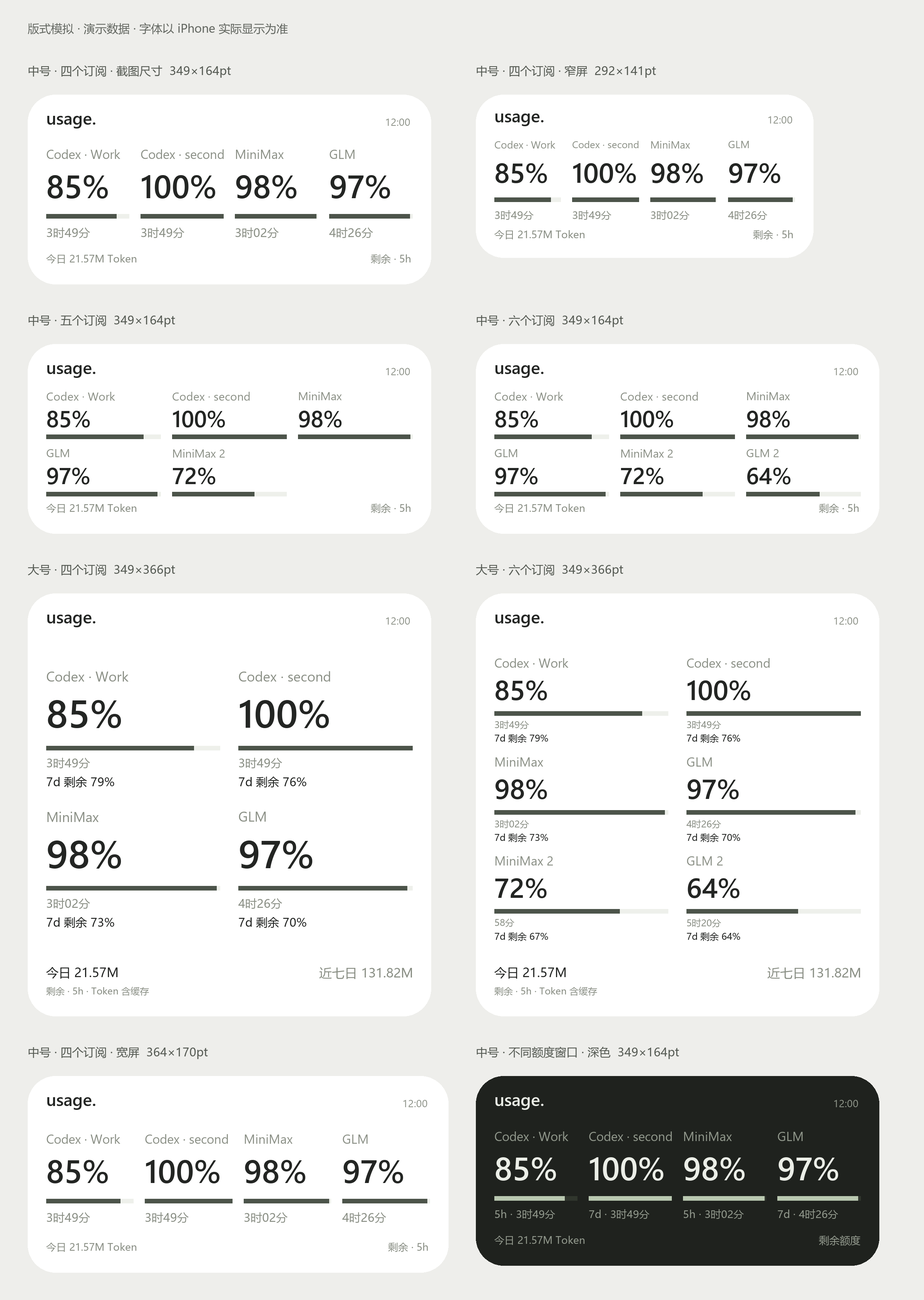
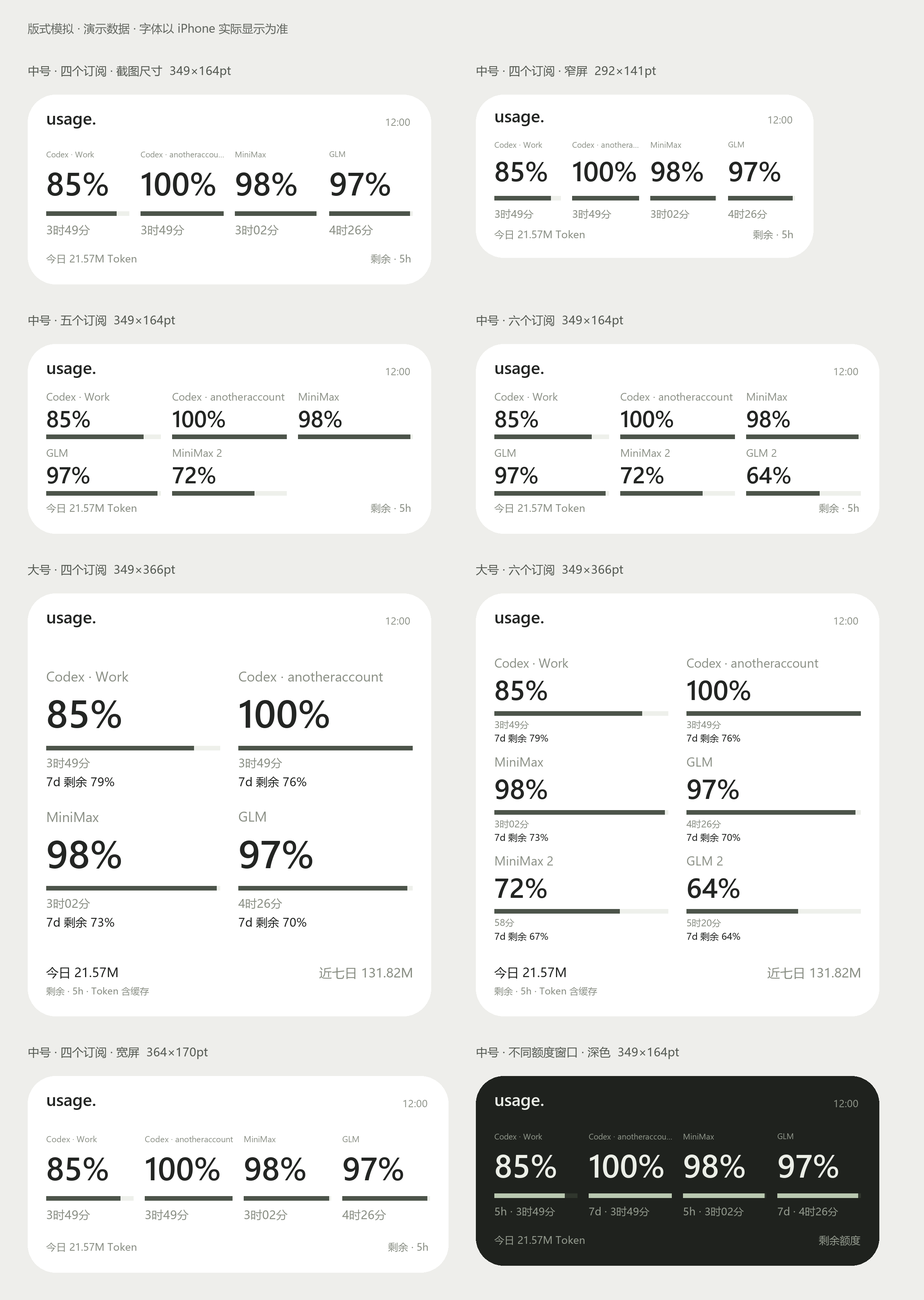
fix: answer the review of the multi-account work
The review of the two commits that named every agent and told the
accounts of one vendor apart found a few things worth fixing.

- The count of the accounts of a vendor is taken once, over every row
  the gateway reports, and travels with the card. A vendor with several
  accounts never lends its total to a card that cannot be named.
- The fallback of each account travels with its own rows, so a cached
  reading can no longer be handed to another account by its place in
  the list, and the source that knows more accounts wins.
- Two accounts that share a name keep their number in the id and in the
  label, and the address of an account is looked up by the same key as
  its card.
- A row of the usage of a vendor without a number leaves the usage
  unknown instead of turning it into a smaller number.
- The last reading of an account is kept when its own query fails, and
  the cards say when their usage comes from an old reading.
- The widget reads its parameter once: a page number is not an account,
  and an account is matched as it is written, so two accounts that
  differ in their case are two accounts.
- A name takes the size that fits its cell; only a name that does not
  fit even at the smallest size is shortened, and the full name stays
  in the dashboard.
- A reset time that cannot be read is unknown, never "NaN days".
- The installer tells how one account of a vendor is chosen.

diff --git a/scriptable/UsageWidget.js b/scriptable/UsageWidget.js
@@ -2,6 +2,8 @@
 // Configure once with SetupUsageWidget.js. No credentials belong in this file.
 // Widget parameter: a provider id for the small family (codex, minimax, glm),
 // optionally "|used" to show consumed instead of remaining percent (glm|used).
+// One account of a vendor is named codex@<account>; the vendor on its own
+// means the first account of that vendor.
 // On medium and large families "used" alone flips every card.
 // Both families adapt to 1–6 subscriptions; "page=2|used" selects another page.
 const SETTINGS_KEY = "usage-bridge-v1";
@@ -85,8 +87,40 @@ function compact(value) {
   if (value >= 1e3) return (value / 1e3).toFixed(1).replace(/\.0$/, "") + "K";
   return String(Math.round(value));
 }
+// The width of a name in the system font, as a multiple of its size: the
+// Chinese characters are full width, the Latin ones differ by their letter.
+function nameWidth(value) {
+  return [...String(value)].reduce((sum, char) => sum + (
+    char.codePointAt(0) >= 0x2e80 ? 1 : /[MW%]/.test(char) ? 0.85 :
+      /[il: .·]/.test(char) ? 0.28 : /\d/.test(char) ? 0.58 : 0.56
+  ), 0);
+}
+// The name of a card is shown in full: it takes the size that fits its cell.
+// A name that does not fit even at the smallest size is shortened, and the
+// full name stays in the dashboard.
+const minimumScale = family === "small" ? 0.7 : 0.9;
+function fitName(value, size, width) {
+  const label = String(value);
+  const em = nameWidth(label);
+  return { size: em > 0 ? Math.max(7, Math.min(size, Math.floor(width / em / minimumScale * 10) / 10)) : size, label };
+}
+function shortenName(label, size, width) {
+  if (nameWidth(label) * size * minimumScale <= width) return label;
+  let keep = label.length;
+  while (keep > 1 && nameWidth(label.slice(0, keep) + "…") * size * minimumScale > width) keep--;
+  return label.slice(0, keep) + "…";
+}
 function expired(window) {
   return window.expired || !!window.resetsAt && Date.parse(window.resetsAt) <= Date.now();
+}
+// The reset of a window is read in one place, so the full text and the short
+// one can never disagree about an unknown or an elapsed time.
+function parseReset(window) {
+  if (expired(window)) return { state: "expired" };
+  if (!window.resetsAt) return { state: "unknown" };
+  const at = Date.parse(window.resetsAt);
+  if (!Number.isFinite(at)) return { state: "unknown" };
+  return { state: "known", minutes: Math.ceil((at - Date.now()) / 60000) };
 }
 // Both directions read the same vendor percentage; only the view changes.
 function value(window) {
@@ -101,17 +135,19 @@ function accent(window) {
   return consumed >= 90 ? colors.critical : consumed >= 75 ? colors.warning : colors.text;
 }
 function reset(window) {
-  if (expired(window)) return "已到期· 待更新";
-  if (!window.resetsAt) return "重置时间未知";
-  const mins = Math.ceil((Date.parse(window.resetsAt) - Date.now()) / 60000);
+  const parsed = parseReset(window);
+  if (parsed.state === "expired") return "已到期· 待更新";
+  if (parsed.state === "unknown") return "重置时间未知";
+  const mins = parsed.minutes;
   if (mins < 60) return mins + " 分钟后重置";
   if (mins < 1440) return Math.floor(mins / 60) + "时 " + mins % 60 + "分后重置";
   return Math.floor(mins / 1440) + "天 " + Math.floor(mins % 1440 / 60) + "时后重置";
 }
 function shortReset(window) {
-  if (expired(window)) return "待更新";
-  if (!window.resetsAt) return "时间未知";
-  const mins = Math.ceil((Date.parse(window.resetsAt) - Date.now()) / 60000);
+  const parsed = parseReset(window);
+  if (parsed.state === "expired") return "待更新";
+  if (parsed.state === "unknown") return "时间未知";
+  const mins = parsed.minutes;
   if (mins < 60) return mins + "分";
   if (mins < 1440) return Math.floor(mins / 60) + "时" + String(mins % 60).padStart(2, "0") + "分";
   return Math.floor(mins / 1440) + "天" + Math.floor(mins % 1440 / 60) + "时";
@@ -141,12 +177,18 @@ function header(status) {
   text(row, "usage.", 15, colors.text, "medium"); row.addSpacer();
   text(row, status, 9, cached ? colors.warning : colors.muted);
 }
-const parameter = String(args.widgetParameter || "").split("|").map(part => part.trim().toLowerCase()).filter(Boolean);
-const showUsed = parameter.includes("used");
-const requested = parameter.find(part => part !== "used") || "codex";
+// The parameter is read once: a subscription to show, a page and a direction.
+// The case of an account is kept: two accounts of one vendor may differ in
+// nothing but their case.
+const parameter = String(args.widgetParameter || "").split("|").map(part => part.trim()).filter(Boolean);
+const showUsed = parameter.some(part => part.toLowerCase() === "used");
+const pageParts = parameter.filter(part => /^page=/i.test(part));
+const selectors = parameter.filter(part => part.toLowerCase() !== "used" && !/^page=/i.test(part));
+const requested = selectors[0] || "codex";
 const emptyWindow = { label: "Quota", remainingPercent: null, usedPercent: null, resetsAt: null };
 function subscriptionGrid(parent, cards, sharedWindow) {
   const large = family === "large";
+  if (!cards.length) return;
   const columns = large ? Math.min(2, cards.length) : cards.length > 4 ? 3 : cards.length;
   const rows = Math.ceil(cards.length / columns);
   const dense = large ? rows === 3 : rows === 2;
@@ -162,6 +204,10 @@ function subscriptionGrid(parent, cards, sharedWindow) {
       ? { name: tight ? 9 : 10, value: tight ? 18 : 20, titleGap: 1, barGap: 1, rowGap: tight ? 4 : 6 }
       : { name: cellWidth < 67 ? 9 : 11, value: cellWidth < 67 ? 24 : 28, reset: cellWidth < 64 ? 9 : 10, titleGap: 4, barGap: 6, resetGap: 6, rowGap: 0 };
   const grid = parent.addStack(); grid.layoutVertically(); grid.size = new Size(layout.width, 0);
+  // Every name of the page takes the size that fits the narrowest of them, so
+  // the cards keep one title size.
+  const names = cards.map(card => fitName(card.label, style.name, cellWidth));
+  const nameSize = names.length ? Math.min(...names.map(name => name.size)) : style.name;
   for (let start = 0; start < cards.length; start += columns) {
     if (start) grid.addSpacer(style.rowGap);
     const row = grid.addStack(); row.topAlignContent();
@@ -171,7 +217,7 @@ function subscriptionGrid(parent, cards, sharedWindow) {
       const card = cards[start + index];
       if (!card) continue; // Keep the final card aligned with the previous rows.
       const primary = card.windows[0] || emptyWindow;
-      text(column, card.label, style.name, colors.muted, "medium");
+      text(column, shortenName(card.label, nameSize, cellWidth), nameSize, colors.muted, "medium");
       column.addSpacer(style.titleGap);
       const valueRow = column.addStack(); valueRow.centerAlignContent();
       text(valueRow, percent(primary), style.value, accent(primary), "medium");
@@ -209,13 +255,17 @@ if (!settings || !data || data.schemaVersion !== 1) {
   if (family === "small") {
     header(status);
     // A parameter may name one account of a vendor (codex@fangzt98) or the
-    // vendor itself, which then means its first account.
-    const card = data.subscriptions.find(c => String(c.id).toLowerCase() === requested)
-      || data.subscriptions.find(c => c.provider === requested);
+    // vendor itself, which then means its first account. The id is matched as
+    // it is written: two accounts of one vendor may differ in their case only.
+    const exact = data.subscriptions.find(c => c.id === requested);
+    const same = data.subscriptions.filter(c => String(c.id).toLowerCase() === requested.toLowerCase());
+    const card = exact || (same.length === 1 ? same[0] : null)
+      || data.subscriptions.find(c => c.provider === requested.toLowerCase());
     widget.addSpacer(12);
     const primary = card && card.windows[0] || emptyWindow;
     const name = widget.addStack();
-    text(name, card ? card.label : "暂无该套餐", 12, colors.muted, "medium");
+    const title = fitName(card ? card.label : "暂无该套餐", 12, layout.width - 60);
+    text(name, title.label, title.size, colors.muted, "medium");
     name.addSpacer(4); text(name, windowLabel(primary), 9, colors.muted);
     widget.addSpacer(3); text(widget, percent(primary), 34, accent(primary), "medium");
     widget.addSpacer(7); bar(widget, primary, 120); widget.addSpacer(7);
@@ -233,7 +283,7 @@ if (!settings || !data || data.schemaVersion !== 1) {
     // Preserve service order and every independent account; page only on the phone.
     const all = data.subscriptions || [];
     const pages = Math.max(1, Math.ceil(all.length / 6));
-    const pageToken = parameter.find(part => part.startsWith("page=")) || "page=1";
+    const pageToken = pageParts[0] || "page=1";
     const rawPage = pageToken.slice(5);
     const pageNumber = /^\d+$/.test(rawPage) ? Number(rawPage) : NaN;
     const page = Number.isSafeInteger(pageNumber) && pageNumber > 0 ? Math.min(pageNumber, pages) : 1;

diff --git a/scriptable/SetupUsageWidget.js b/scriptable/SetupUsageWidget.js
@@ -40,7 +40,7 @@ if (await alert.presentAlert() !== -1) {
     Keychain.set("usage-bridge-v1", JSON.stringify({ baseURL, token }));
     const done = new Alert();
     done.title = "已连接";
-    done.message = "UsageWidget 已安装。长按桌面添加 Scriptable 中号或大号小组件，选择 UsageWidget。每页最多六个订阅，布局随数量自动调整。\n\n中号和大号参数留空即可；page=2 查看第二页，used 改显已用，可组合 page=2|used。小号填 codex、minimax 或 glm，可加 |used。再次运行本安装器可更新组件。";
+    done.message = "UsageWidget 已安装。长按桌面添加 Scriptable 中号或大号小组件，选择 UsageWidget。每页最多六个订阅，布局随数量自动调整。\n\n中号和大号参数留空即可；page=2 查看第二页，used 改显已用，可组合 page=2|used。小号填 codex、minimax 或 glm，可加 |used；同一个厂商登录了多个账号时，填 codex@账号名 指定其中一个（如 codex@liuzq），只填 codex 表示该厂商的第一个账号。再次运行本安装器可更新组件。";
     done.addAction("预览组件"); done.addCancelAction("完成");
     if (await done.presentAlert() !== -1) Safari.open("scriptable:///run?scriptName=UsageWidget");
   } catch (error) {

diff --git a/web/app.js b/web/app.js
@@ -110,7 +110,9 @@ function renderQuotas(cards) {
     if (!card.windows.length) article.append(node('p', 'fine-print', '此套餐未提供额度窗口'));
     if (card.usage && card.usage.today) {
       const today = card.usage.today;
-      article.append(node('p', 'fine-print', '今日 ' + compact(today.totalTokens) + ' Token · ' + today.requests + ' 次请求'));
+      const line = '今日 ' + compact(today.totalTokens) + ' Token';
+      const detail = Number.isFinite(today.requests) ? ' · ' + today.requests + ' 次请求' : '';
+      article.append(node('p', 'fine-print', line + detail + (card.usageStale ? ' · 缓存读数' : '')));
     } else {
       // The usage of this subscription is unknown; the total of all is never
       // shown in its place.

diff --git a/docs/API.md b/docs/API.md
@@ -43,9 +43,13 @@ Agent 条目同样按上游稳定 id 解析，覆盖 Magpie 已知的全部 agen
 
 `subscriptions` 的顺序即手机组件的显示顺序；API 保留全部所选套餐，分页仅在手机端进行。中号与大号每页最多显示 6 个，随当前页数量自动调整布局；通过组件参数 `page=2` 指定第二页，支持 `page=2|used`。默认第一页，无效页码使用第一页，超出范围使用最后一页；多页时显示当前页码及总页数。
 
-套餐字段：`id`、`provider`、`label`、`plan`、`account`、`alias`、`updatedAt`、`stale`、`windows`。同一厂商有多个账号时，每个账号单独成卡：`id` 为 `厂商@账号`（如 `codex@liuzq`），`label` 为 `Codex · liuzq`，`account` 为账号标识；只有一个账号的厂商保持 `Codex` 这样的普通名称，不输出账号身份。账号只取上游 `user` 中 `@` 前的部分，邮箱域名与凭据不会离开本机。Magpie 中给账户起的名字（`magpie accounts alias codex <email> <name>`）由上游放在 `alias`，符合纯文本规则的才显示，出现在 `label` 与 `alias` 字段中，它不改变 `id`。`display.subscriptions` 既可写厂商名（`codex`），也可写某个账号（`codex@liuzq`）；组件参数同样支持这两种写法，厂商名表示该厂商的第一个账号。
+套餐字段：`id`、`provider`、`label`、`plan`、`account`、`alias`、`accounts`、`updatedAt`、`stale`、`usageStale`、`windows`。同一厂商有多个账号时，每个账号单独成卡：`id` 为 `厂商@账号`（如 `codex@liuzq`），`label` 为 `Codex · liuzq`，`account` 为账号标识；只有一个账号的厂商保持 `Codex` 这样的普通名称，不输出账号身份。账号只取上游 `user` 中 `@` 前的部分，邮箱域名与凭据不会离开本机。Magpie 中给账户起的名字（`magpie accounts alias codex <email> <name>`）由上游放在 `alias`，符合纯文本规则的才显示，出现在 `label` 与 `alias` 字段中，它不改变 `id`。`display.subscriptions` 既可写厂商名（`codex`），也可写某个账号（`codex@liuzq`）；组件参数同样支持这两种写法，厂商名表示该厂商的第一个账号。
 
-同一厂商的多个账号按账号名排序，与网关返回的先后无关：账号不会互相换位，厂商名也永远指同一个账号。
+同一厂商的多个账号按账号名排序，与网关返回的先后无关：账号不会互相换位，厂商名也永远指同一个账号。两个账号只差大小写时按原样区分；两个账号的名字完全相同时，后一个在 `id` 与 `label` 上都带序号（如 `codex@liuzq-2`、`Codex · liuzq-2`），两张卡仍能分辨。
+
+`accounts` 是这个厂商已知的账号数。它按网关报出的所有行统计，包括读数坏掉而没有成卡的那一行：一个有多个账号的厂商，任何一张卡都不会借用厂商的合计。
+
+关于标签来源：厂商名、窗口名、模型名与 agent 名都来自代码内的固定映射；`alias` 是例外，因为它是用户自己为**自己的**账号起的名字，不是第三方文本。它只按纯文本规则过滤（字母、数字、空格与 `._*'-`，至多 32 字），不含地址、路径或标记，并随快照保存在本机；不符合规则的别名不显示，`label` 退回厂商名。
 
 额度 windows 包含：
 - `label`：厂商窗口名。
@@ -54,7 +58,9 @@ Agent 条目同样按上游稳定 id 解析，覆盖 Magpie 已知的全部 agen
 - `expired`：窗口是否已到期；客户端在离线时也必须重新计算。
 - `amount`、`limit`：厂商明确提供时保留；不推断额度单位。
 
-每个套餐还带 `usage`：该套餐自己的今日用量（`today.totalTokens`、`today.requests`）。同一厂商有多个账号时，这是那一个账号自己的用量（Magpie 按账号过滤用量后只回总量，账号地址不离开本机、不写入快照）；只有一个账号的厂商，取该厂商自己的用量行。取不到时为 null，客户端不得用全量顶替；同一厂商有多个账号时，任何一张卡都不会借用厂商的总量，因为那会把另一个账号的 Token 算进来。跨日之后的今日读数不作为今天的用量。
+每个套餐还带 `usage`：该套餐自己的今日用量（`today.totalTokens`、`today.requests`）。同一厂商有多个账号时，这是那一个账号自己的用量（Magpie 按账号过滤用量后只回总量，账号地址不离开本机、不写入快照）；只有一个账号的厂商，取该厂商自己的用量行。取不到时为 null，客户端不得用全量顶替；同一厂商有多个账号时，任何一张卡都不会借用厂商的总量，因为那会把另一个账号的 Token 算进来。厂商用量行缺数字时整组作废（未知），不会变成一个偏小的数字。跨日之后的今日读数不作为今天的用量。
+
+`usageStale` 说明这张卡的用量取自多旧的读数：今日读数不是最新时为 true，界面应把它当作缓存显示。额度窗口本身的新旧由 `stale` 与 `updatedAt` 说明。
 
 指标字段：`requests`、`errors`、`inputTokens`、`outputTokens`、`cacheReadTokens`、`cacheWriteTokens`、`reasoningTokens`、`totalTokens`、`cacheHitPercent`、`cost`、`unpriced`、`outputTokensPerSecond`、`ttftMs`。缓存命中率分母为输入＋缓存读取＋缓存写入，与 `totalTokens` 的口径一致；分母为 0 时为 null。`cost` 为 Magpie 按实效价格的估算值，`unpriced` 为未计价请求数（估算可能偏低），货币单位以 Magpie 价格表为准；`outputTokensPerSecond` 为流式解码吞吐，`ttftMs` 为平均首字延迟，两者只统计有测量的请求，无测量时为 null。
 

diff --git a/docs/DEPLOYMENT.md b/docs/DEPLOYMENT.md
@@ -59,15 +59,17 @@ node scripts/configure.mjs --model-limit 12 --subscriptions codex,minimax,glm
 
 **同一厂商的多个账号**：在 Magpie 里登录第二个账号（两套登录信息并存）后，两张卡分别显示为 `Codex · 账号名` 与 `Codex · 另一个账号名`，账号名取邮箱 `@` 前的部分，彼此不会换位；该厂商只有一个账号时仍显示 `Codex`，不显示账号身份。邮箱域名不会显示，也不会离开本机。要只显示其中一个账号，在 `subscriptions` 里写 `codex@liuzq`；小号组件的 Widget Parameter 也可写 `codex@liuzq`，写 `codex` 表示该厂商的第一个账号。
 
-厂商内的顺序按账号名排定，与 Magpie 返回的先后无关：账号换了位置，组件参数指向的仍是同一个账号，厂商名也永远指同一个账号。要固定显示顺序，就在 `subscriptions` 里按需要的顺序写出 `codex@账号`。
+厂商内的顺序按账号名排定，与 Magpie 返回的先后无关：账号换了位置，组件参数指向的仍是同一个账号，厂商名也永远指同一个账号。要固定显示顺序，就在 `subscriptions` 里按需要的顺序写出 `codex@账号`。两个账号只差大小写时按原样区分；两个账号的名字完全相同时，后一个在 id 与显示名上都带序号，两张卡仍能分辨。
 
-给账户起个自己的名字（`magpie accounts alias codex <email> <name>`），组件就会显示这个名字而不是邮箱前缀：`Codex · 工作账号`。名字只在本机保存，符合纯文本规则的才会显示；它不影响 `codex@liuzq` 这样的 id。
+给账户起个自己的名字（`magpie accounts alias codex <email> <name>`），组件就会显示这个名字而不是邮箱前缀：`Codex · 工作账号`。名字只在本机保存，符合纯文本规则的才会显示；它不影响 `codex@liuzq` 这样的 id。厂商名、窗口名、模型名与 agent 名都取自代码内的固定映射；别名是唯一的例外，因为它是用户为自己账号起的名字，不是第三方文本。
 
-每个套餐带自己的今日用量：多账号时是这个账号自己的 Token（服务按账号向 Magpie 查询，只取回总量，账号地址不写入快照），单账号厂商是该厂商自己的用量。小号组件只显示一个套餐，底部的“今日 … token”也是这个套餐的用量；中号与大号显示多个套餐，页脚仍是全部用量的合计。厂商有多个账号时，任何一张卡都不会借用厂商的总量；取不到的用量显示“—”，不用别的数字顶替。账号地址只在本机内存里保留，用来在额度接口临时不可用时继续查询同一个账号，读数返回后即丢弃。
+每个套餐带自己的今日用量：多账号时是这个账号自己的 Token（服务按账号向 Magpie 查询，只取回总量，账号地址不写入快照），单账号厂商是该厂商自己的用量。小号组件只显示一个套餐，底部的“今日 … token”也是这个套餐的用量；中号与大号显示多个套餐，页脚仍是全部用量的合计。厂商有多个账号时，任何一张卡都不会借用厂商的总量；取不到的用量显示“—”，不用别的数字顶替。账号地址只在本机内存里保留，用来在额度接口临时不可用时继续查询同一个账号，读数返回后即丢弃；账号用量查询失败时保留上一次读到的数字，并标明是缓存读数。
 
 中号和大号每页最多六个套餐，按 `subscriptions` 的返回顺序分页。超过六个时显示页码，Widget Parameter 填 `page=2` 查看第二页，填 `page=2|used` 同时查看已用额度。默认第一页，不自动轮播；无效页码回到第一页，超出范围显示最后一页。最后一页按实际套餐数量排版，也可添加多个不同页码的组件组成系统堆叠。
 
 布局使用 `Device.screenSize()` 的屏幕点尺寸选择组件尺寸档位；扣除左右各 16pt 内边距后，正文、页眉和页脚使用相同宽度，中号列间距 10pt、大号 16pt，未知屏幕采用保守估算。名称独占一行，倒计时简写为 `49分`、`3时49分`、`2天3时`；到期显示“待更新”，无重置时间显示“时间未知”。同页主窗口相同时统一在页脚标注，不同时在各卡标明窗口；紧凑中号在数值旁标明不同窗口，不增加倒计时行。
+
+卡片名称按它自己的长度取字号：窄卡片里名字长的那一张用更小的字号，同一页的标题保持同一个字号。名字长到连最小的字号也放不下时，手机上才把它缩短（`Codex · liuzq…`），完整名字在详情页与网页上看得到；账号名与别名都不会被截断在服务那一侧。
 
 默认安装器使用 [Tailscale TCP 转发](https://tailscale.com/docs/reference/tailscale-cli/serve)，将 Tailnet 上的本项目端口转发至本机回环服务。转发在 Tailscale 重启后保留，不需要开启公网 Funnel。已有同端口且指向其他目标的转发会阻止安装，不覆盖它。
 

diff --git a/README.md b/README.md
@@ -58,9 +58,9 @@ powershell -NoProfile -ExecutionPolicy Bypass -File scripts/install.ps1
 | 中号 | 每页最多 6 个；1–4 个并排，5–6 个两行三列；今日 Token | 留空；`page=2` 查看第二页 |
 | 大号 | 每页最多 6 个；两列卡片，显示主额度、重置时间及第二窗口百分比；今日与近七日 Token | 留空；`page=2` 查看第二页 |
 
-订阅增减后布局自动调整。同一厂商登录了两个账号时，两张卡分别显示为 `Codex · 账号名` 与 `Codex · 另一个账号名`（账号名取邮箱 `@` 前的部分；在 Magpie 里给账户起的名字会优先显示），只有一个账号时仍显示 `Codex`。同一厂商内的顺序按账号名排定，账号不会互相换位，参数 `codex` 永远指同一个账号。中号 1–4 个时显示重置倒计时，5–6 个时采用紧凑卡片并省略倒计时。大号不再显示趋势图，趋势仍可在详情页查看。
+订阅增减后布局自动调整。同一厂商登录了两个账号时，两张卡分别显示为 `Codex · 账号名` 与 `Codex · 另一个账号名`（账号名取邮箱 `@` 前的部分；在 Magpie 里给账户起的名字会优先显示），只有一个账号时仍显示 `Codex`。同一厂商内的顺序按账号名排定，账号不会互相换位，参数 `codex` 永远指同一个账号；两个账号名字完全相同时，后一个带序号（`Codex · 账号名-2`）。中号 1–4 个时显示重置倒计时，5–6 个时采用紧凑卡片并省略倒计时。大号不再显示趋势图，趋势仍可在详情页查看。
 
-正文按屏幕尺寸选择组件宽度，与页眉、页脚对齐；名称单独一行，重置倒计时简写为 `3时49分`。主窗口相同时在页脚统一标注 `剩余 · 5h`，不同时各卡分别标注窗口。参考 [布局模拟预览](docs/preview-widgets.png)（演示数据，非 iOS 截图）。本地运行 `node scripts/preview-widgets.mjs` 可重新生成预览，需要 Python、Pillow 和 Windows 系统字体。
+正文按屏幕尺寸选择组件宽度，与页眉、页脚对齐；名称单独一行，卡片名称按长度取字号，长到放不下时才在手机上缩短，完整名字在详情页看得到；重置倒计时简写为 `3时49分`。主窗口相同时在页脚统一标注 `剩余 · 5h`，不同时各卡分别标注窗口。参考 [布局模拟预览](docs/preview-widgets.png)（演示数据，非 iOS 截图）。本地运行 `node scripts/preview-widgets.mjs` 可重新生成预览，需要 Python、Pillow 和 Windows 系统字体。
 
 超过六个订阅时，每页显示六个并标注页码；在“编辑 Widget”的 Parameter 中填 `page=2`，或用 `page=2|used` 同时切为已用视图。默认第一页，不自动轮播；可以添加多个组件指定不同页，再用系统组件堆叠切换。无效页码回到第一页，超出范围显示最后一页，订阅减少后也会自动适配。
 
